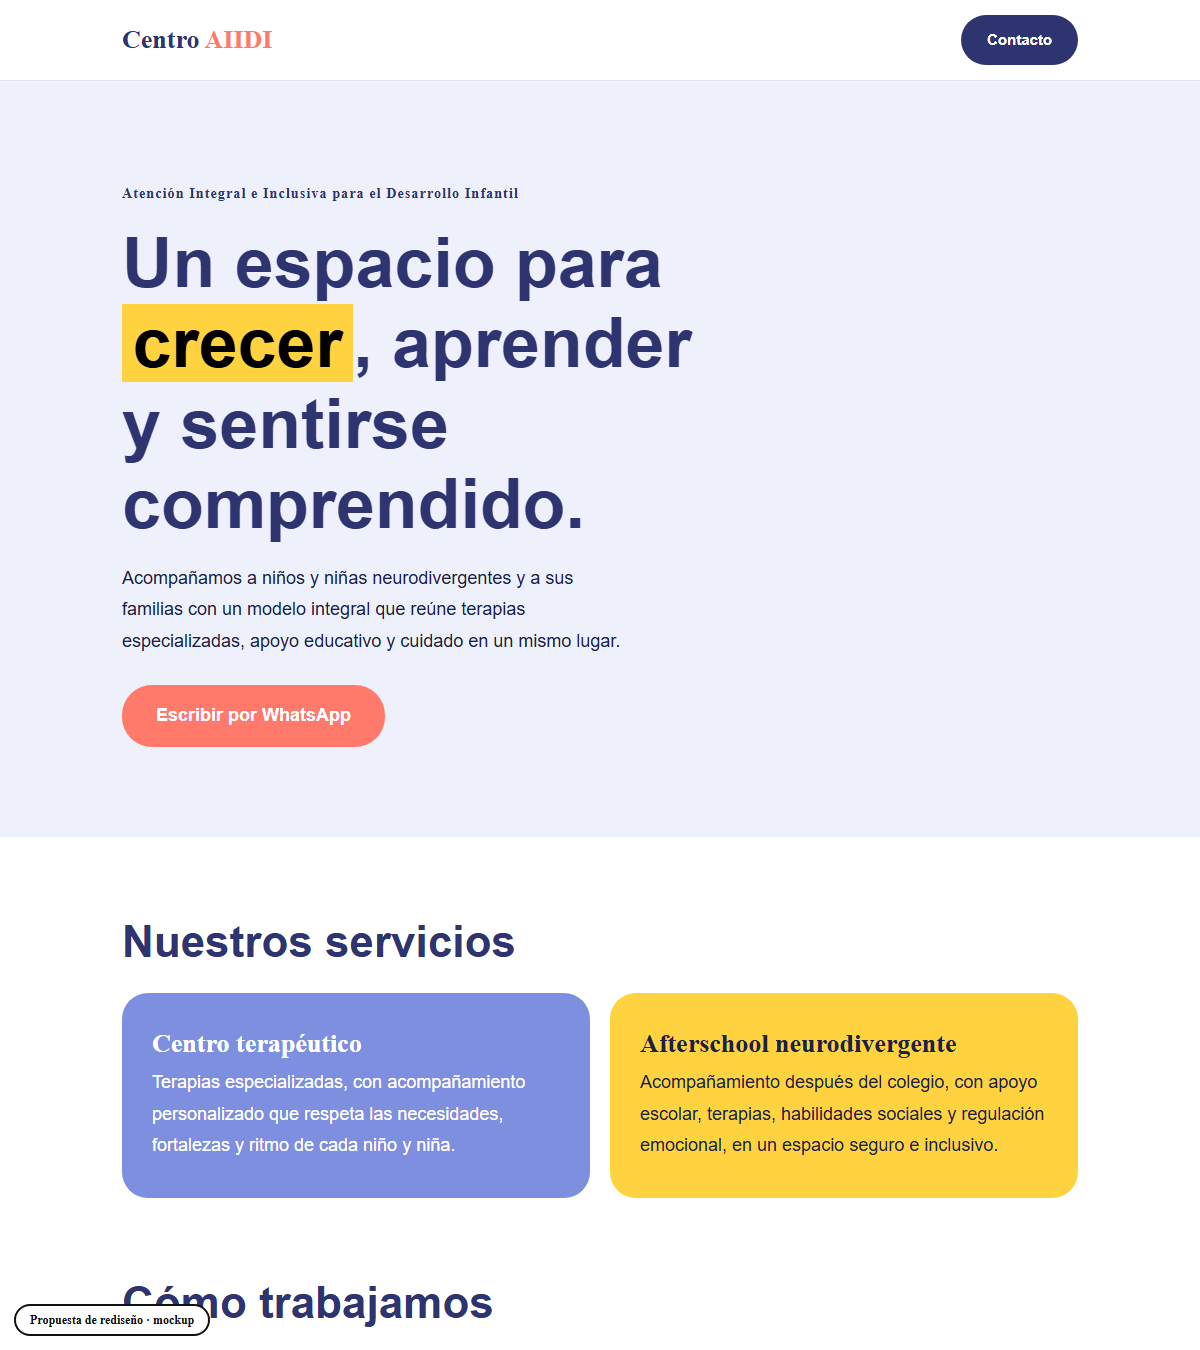
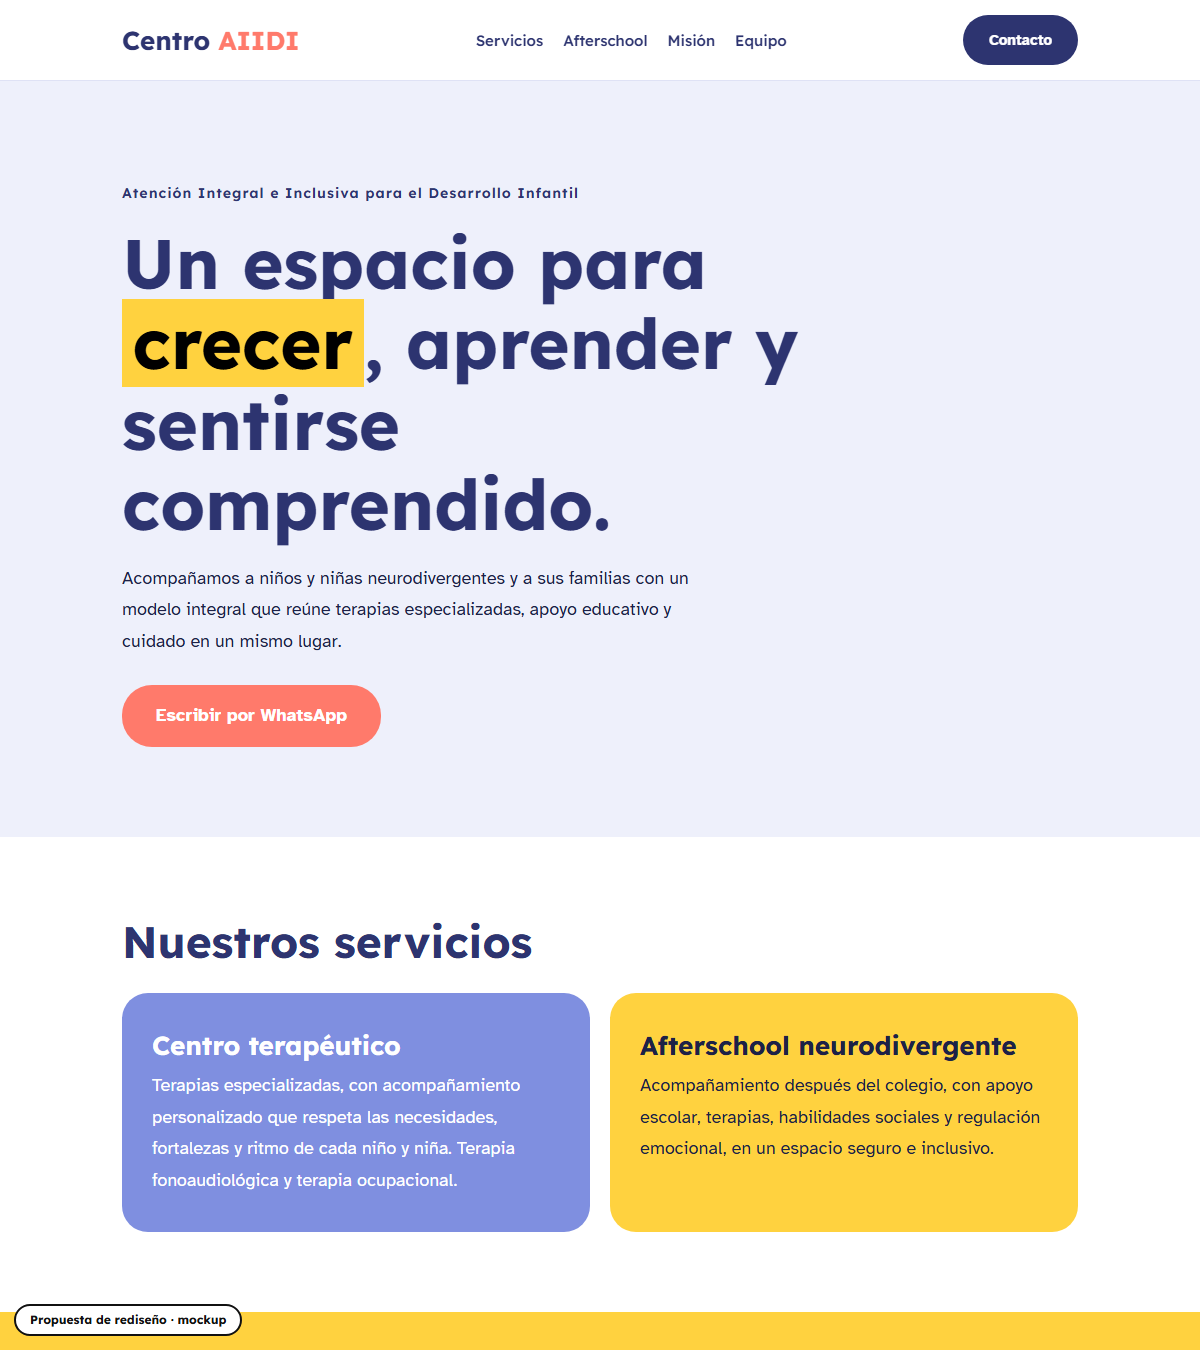
Mockup: aiidi-centro-de-terapias-santiago

diff --git a/aiidi-centro-de-terapias-santiago/index.html b/aiidi-centro-de-terapias-santiago/index.html
@@ -6,12 +6,12 @@
 <link href="https://fonts.googleapis.com/css2?family=Lexend:wght@500;600;700&family=Atkinson+Hyperlegible:wght@400;700&display=swap" rel="stylesheet">
 <style>
 :root{--peri:#7f8fe0;--deep:#2d3470;--sun:#ffd23f;--mist:#eef0fb;--ink:#1d2147;--coral:#ff7a6b}
-*{box-sizing:border-box;margin:0}html{scroll-behavior:smooth}
+*{box-sizing:border-box;margin:0}html{scroll-behavior:smooth;scroll-padding-top:100px}
 @media(prefers-reduced-motion:reduce){html{scroll-behavior:auto}}
 body{background:#fff;color:var(--ink);font:400 18px/1.75 'Atkinson Hyperlegible',sans-serif}
 .wrap{max-width:1000px;margin:0 auto;padding:0 22px}
 h1,h2,h3{font-family:Lexend,sans-serif;line-height:1.15}
-header{border-bottom:1px solid #dfe2f5}header .wrap{display:flex;justify-content:space-between;align-items:center;height:80px}
+header{position:sticky;top:0;z-index:20;border-bottom:1px solid #dfe2f5}header .wrap{display:flex;justify-content:space-between;align-items:center;height:80px}
 .brand{font:700 26px Lexend;color:var(--deep)}.brand i{font-style:normal;color:var(--coral)}
 header a.b{background:var(--deep);color:#fff;text-decoration:none;padding:12px 26px;border-radius:30px;font-weight:700;font-size:15px}
 header a.b:hover{background:var(--coral)}
@@ -29,13 +29,20 @@ section{padding:80px 0}h2{font-size:clamp(28px,4.2vw,44px);margin-bottom:14px;co
 .pts div{border:2px solid var(--peri);border-radius:20px;padding:24px 22px;font-size:16.5px}
 .loc{background:var(--deep);color:#fff}.loc h2{color:#fff}.loc a{color:var(--sun)}
 footer{padding:22px 0 90px;text-align:center;font-size:13px;opacity:.6}
-.mock{position:fixed;left:14px;bottom:14px;background:#fff;color:#111;border:2px solid #111;font:700 12px/1 Lexend;padding:8px 14px;border-radius:30px;z-index:9}
+.mock{z-index:30;position:fixed;left:14px;bottom:14px;background:#fff;color:#111;border:2px solid #111;font:700 12px/1 Lexend;padding:8px 14px;border-radius:30px;z-index:9}
 @media(max-width:780px){.two,.pts{grid-template-columns:1fr}.hero .wrap{padding:56px 22px}}
-</style></head><body>
-<header><div class="wrap"><div class="brand">Centro <i>AIIDI</i></div><a class="b" href="#contacto">Contacto</a></div></header>
+nav{display:flex;gap:20px;font:500 15px Lexend}nav a{color:var(--deep);text-decoration:none}nav a:hover{color:var(--coral)}.ab{display:grid;grid-template-columns:1fr 1fr;gap:20px;margin-top:24px}.ab>div{border-radius:26px;padding:34px 30px;background:var(--mist)}.ab h3{font-size:24px;color:var(--deep);margin-bottom:8px}.ab p{font-size:16.5px;margin-bottom:8px}.as{background:var(--sun)}.as .wrap{display:grid;grid-template-columns:1.1fr 1fr;gap:36px;align-items:center}.as h2{color:var(--deep)}.as ul{list-style:none;padding:0;margin-top:14px}.as li{padding:7px 0 7px 32px;position:relative;font-weight:700}.as li:before{content:"";position:absolute;left:0;top:14px;width:16px;height:16px;border-radius:50%;background:var(--deep)}.hr{background:#fff;border-radius:26px;padding:34px 30px;text-align:center}.hr b{font:700 56px/1 Lexend;color:var(--deep);display:block}.hr span{font-size:16px}.team{display:grid;grid-template-columns:repeat(2,1fr);gap:16px;margin-top:24px}.team>div{border:2px solid var(--peri);border-radius:22px;padding:26px}.team small{color:var(--coral);font:700 12px Lexend;letter-spacing:.1em;text-transform:uppercase}.team b{display:block;font:600 19px Lexend;color:var(--deep);margin:4px 0 6px}.team p{font-size:15.5px}@media(max-width:860px){nav{display:none}.ab,.as .wrap,.team{grid-template-columns:1fr}}</style></head><body>
+<header><div class="wrap"><div class="brand">Centro <i>AIIDI</i></div><nav><a href="#servicios">Servicios</a><a href="#afterschool">Afterschool</a><a href="#mision">Misión</a><a href="#equipo">Equipo</a></nav><a class="b" href="#contacto">Contacto</a></div></header>
 <div class="hero"><div class="wrap"><small>Atención Integral e Inclusiva para el Desarrollo Infantil</small><h1>Un espacio para <mark>crecer</mark>, aprender y sentirse comprendido.</h1><p>Acompañamos a niños y niñas neurodivergentes y a sus familias con un modelo integral que reúne terapias especializadas, apoyo educativo y cuidado en un mismo lugar.</p><a class="btn" href="https://wa.me/56929073909?text=Hola%2C%20quisiera%20informaci%C3%B3n%20sobre%20AIIDI">Escribir por WhatsApp</a></div></div>
-<section><div class="wrap"><h2>Nuestros servicios</h2><div class="two"><div class="a"><b>Centro terapéutico</b>Terapias especializadas, con acompañamiento personalizado que respeta las necesidades, fortalezas y ritmo de cada niño y niña.</div><div class="b"><b>Afterschool neurodivergente</b>Acompañamiento después del colegio, con apoyo escolar, terapias, habilidades sociales y regulación emocional, en un espacio seguro e inclusivo.</div></div></div></section>
-<section style="padding-top:0"><div class="wrap"><h2>Cómo trabajamos</h2><div class="pts"><div>Cada niño y niña desarrolla sus habilidades respetando sus tiempos y su forma de relacionarse con el mundo.</div><div>Espacios de encuentro para fortalecer el vínculo entre familias, profesionales y comunidad.</div><div>Experiencias grupales de juego, movimiento y aprendizaje que favorecen la participación y la autonomía.</div></div></div></section>
+<section id="servicios"><div class="wrap"><h2>Nuestros servicios</h2><div class="two"><div class="a"><b>Centro terapéutico</b>Terapias especializadas, con acompañamiento personalizado que respeta las necesidades, fortalezas y ritmo de cada niño y niña. Terapia fonoaudiológica y terapia ocupacional.</div><div class="b"><b>Afterschool neurodivergente</b>Acompañamiento después del colegio, con apoyo escolar, terapias, habilidades sociales y regulación emocional, en un espacio seguro e inclusivo.</div></div></div></section>
+<section class="as" id="afterschool"><div class="wrap"><div><h2>Afterschool neurodivergente</h2><p>Un espacio para niños y niñas de 4 a 8 años, donde después del colegio se sienten acompañados, cuidados y siguen fortaleciendo su desarrollo. Mientras tú sigues con tu jornada laboral, tu hijo o hija está en un espacio preparado para sus necesidades.</p><ul><li>Terapia fonoaudiológica y terapia ocupacional</li><li>Apoyo escolar con educadoras diferenciales</li><li>Rutinas estructuradas y acompañamiento toda la jornada</li><li>Cuidado, terapias y aprendizaje en un solo valor mensual</li></ul></div><div class="hr"><b>13:00 a 18:00</b><span>De lunes a viernes</span></div></div></section>
+<section id="mision"><div class="wrap"><h2>Misión y visión</h2><div class="ab"><div><h3>Misión</h3><p>Brindar atención integral, inclusiva y especializada a niños y niñas neurodivergentes, promoviendo su desarrollo, autonomía, bienestar y participación activa en los distintos espacios de su vida.</p><p>Integrar terapias, acompañamiento educativo y cuidado especializado en un mismo lugar, y ser una red de apoyo para las madres y sus familias.</p></div><div><h3>Visión</h3><p>Consolidar a AIIDI como un centro referente en atención integral e inclusión de niños y niñas neurodivergentes, con un modelo innovador que reúna terapias multidisciplinarias, apoyo educativo, cuidado especializado y acompañamiento familiar.</p><p>Contribuir a una sociedad más inclusiva y a que más madres puedan trabajar con tranquilidad, sabiendo que sus hijos están en un entorno seguro y especializado.</p></div></div></div></section>
+<section class="pts-wrap" style="padding-top:0"><div class="wrap"><h2>Cómo trabajamos</h2><div class="pts"><div>Cada niño y niña desarrolla sus habilidades respetando sus tiempos y su forma de relacionarse con el mundo.</div><div>Espacios de encuentro para fortalecer el vínculo entre familias, profesionales y comunidad AIIDI.</div><div>Experiencias grupales de juego, movimiento y aprendizaje que favorecen la participación y la autonomía.</div></div></div></section>
+<section id="equipo" style="padding-top:0"><div class="wrap"><h2>Equipo profesional</h2><div class="team">
+<div><small>Fundadora y directora</small><b>Profesora diferencial</b><p>Especialista en discapacidad intelectual, con experiencia en autismo, neurodivergencia e inclusión educativa y trayectoria en Programas de Integración Escolar. Creó el modelo de trabajo de AIIDI.</p></div>
+<div><small>Educación parvularia</small><b>Educadora de párvulos</b><p>Titulada en la Universidad Católica de Temuco, con formación en discapacidad en la primera infancia y experiencia en afterschool y trabajo con familias.</p></div>
+<div><small>Fonoaudiología</small><b>Fonoaudióloga</b><p>Titulada en la Universidad Mayor, con experiencia en lenguaje, habla, comunicación y trastorno del espectro autista; capacitada en ADOS-2 y ABA inicial.</p></div>
+<div><small>Terapia ocupacional</small><b>Terapeuta ocupacional</b><p>Titulada en la Universidad Bernardo O'Higgins, con experiencia en TEA y TDAH hasta los 7 años; realiza perfil sensorial y aplica ADOS-2, ADI-R y ABAS.</p></div></div></div></section>
 <section class="loc" id="contacto"><div class="wrap"><h2>Escríbenos</h2><p>Serrano 14, oficina 303, Santiago Centro. A pocos minutos caminando de Metro Universidad de Chile.</p><p style="margin-top:10px"><a href="https://wa.me/56929073909">+56 9 2907 3909</a> · <a href="mailto:contacto.aiidi@gmail.com">contacto.aiidi@gmail.com</a></p></div></section>
 <footer>CENTRO AIIDI · SANTIAGO CENTRO</footer>
 <div class="mock">Propuesta de rediseño · mockup</div></body></html>
